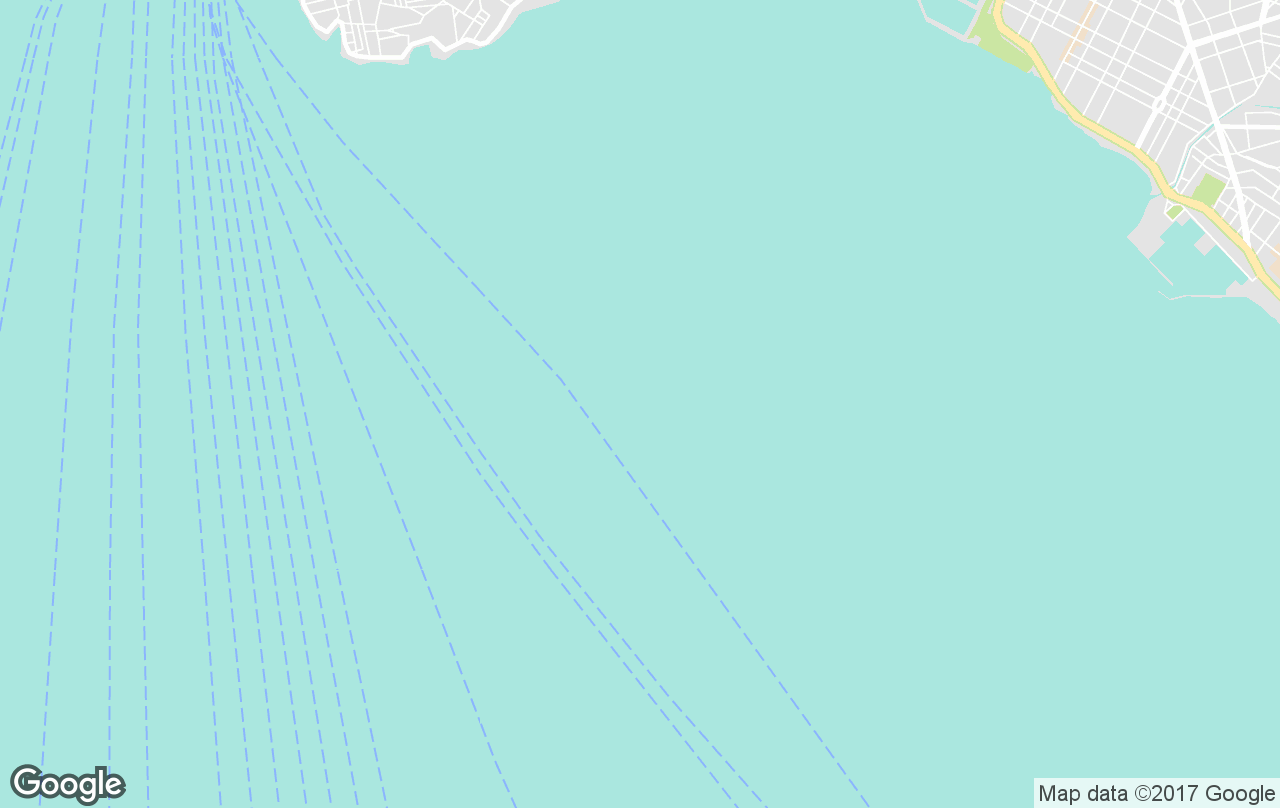
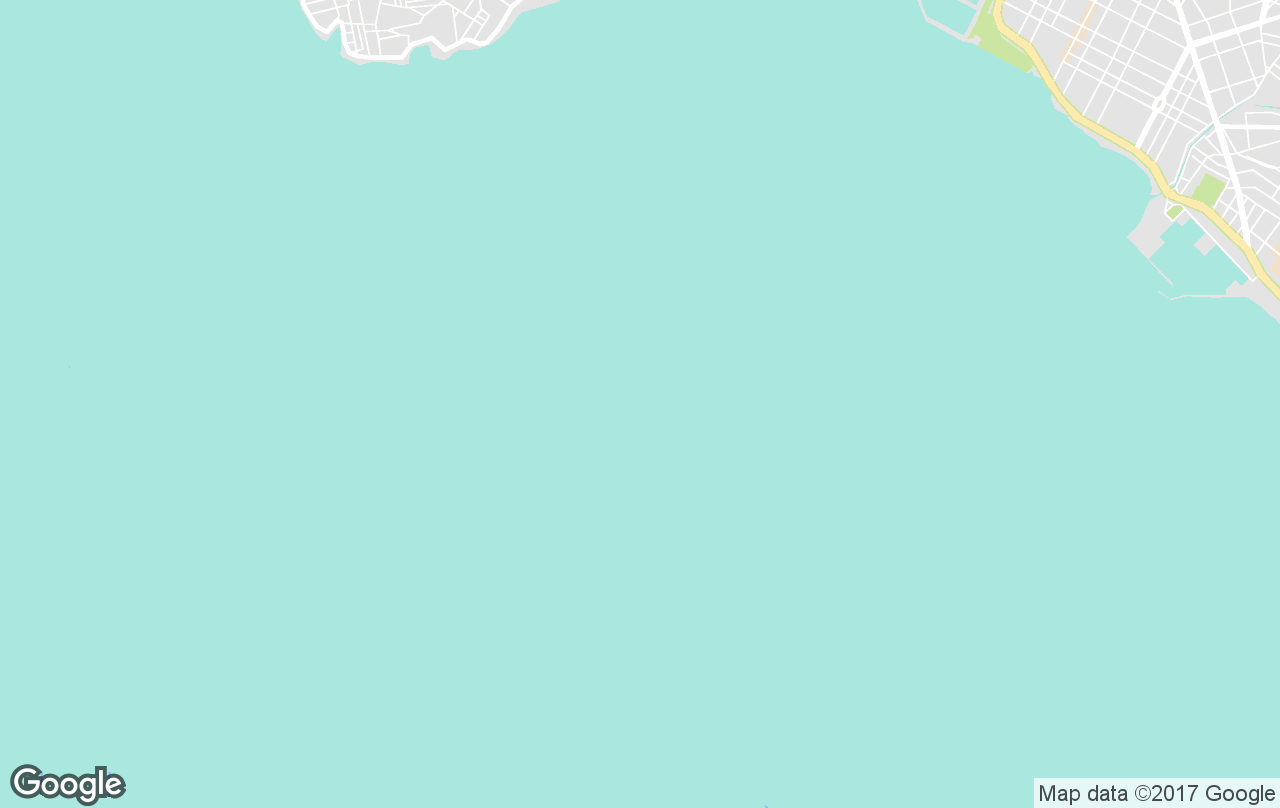
fixed map zooming in and out issue and removed lines from athens map
#story[1177]

diff --git a/src/main/java/seng302/controllers/Controller.java b/src/main/java/seng302/controllers/Controller.java
@@ -283,14 +283,12 @@ public class Controller implements Initializable, Observer {
             zoomSlider.setOpacity(FOCUSED_ZOOMSLIDER_OPACITY);
             DisplayUtils.setZoomLevel(zoomSlider.getValue());
             if (DisplayUtils.zoomLevel != 1) {
-                //mapImageView.setVisible(false);
-                AnimationUtils.fadeNode(mapImageView, true);
+                mapImageView.setVisible(false);
             } else {
                 //Zoom out full, reset everything
                 selectionController.setRotationOffset(0);
                 root.getTransforms().clear();
-                //mapImageView.setVisible(true);
-                AnimationUtils.fadeNode(mapImageView, false);
+                mapImageView.setVisible(true);
                 selectionController.setTrackingPoint(false);
                 DisplayUtils.resetOffsets();
             }
